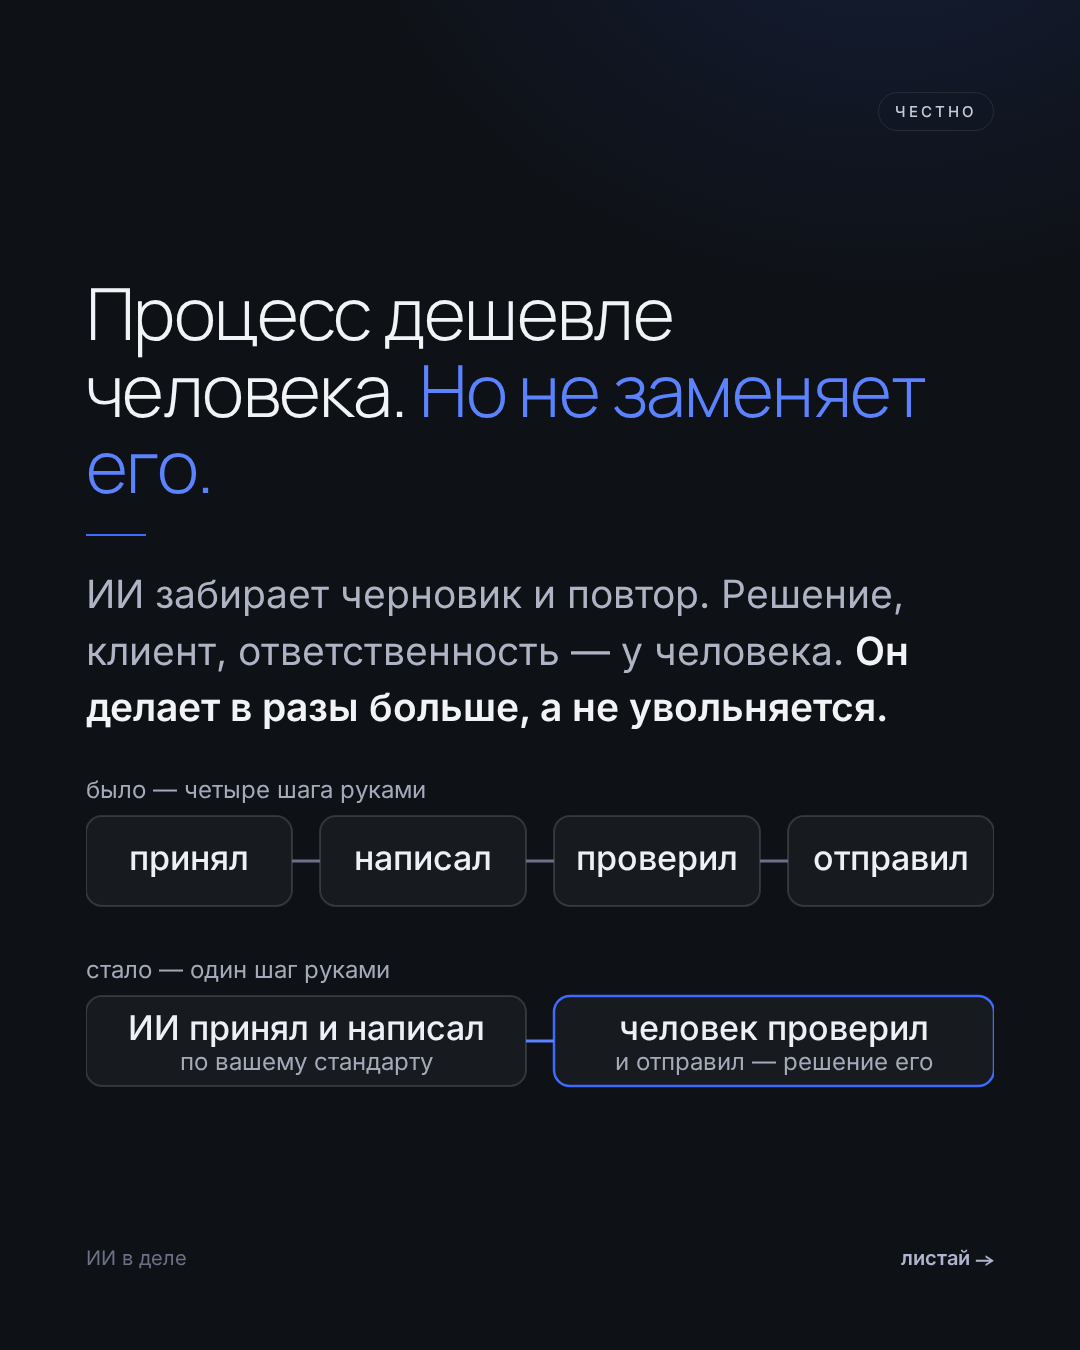
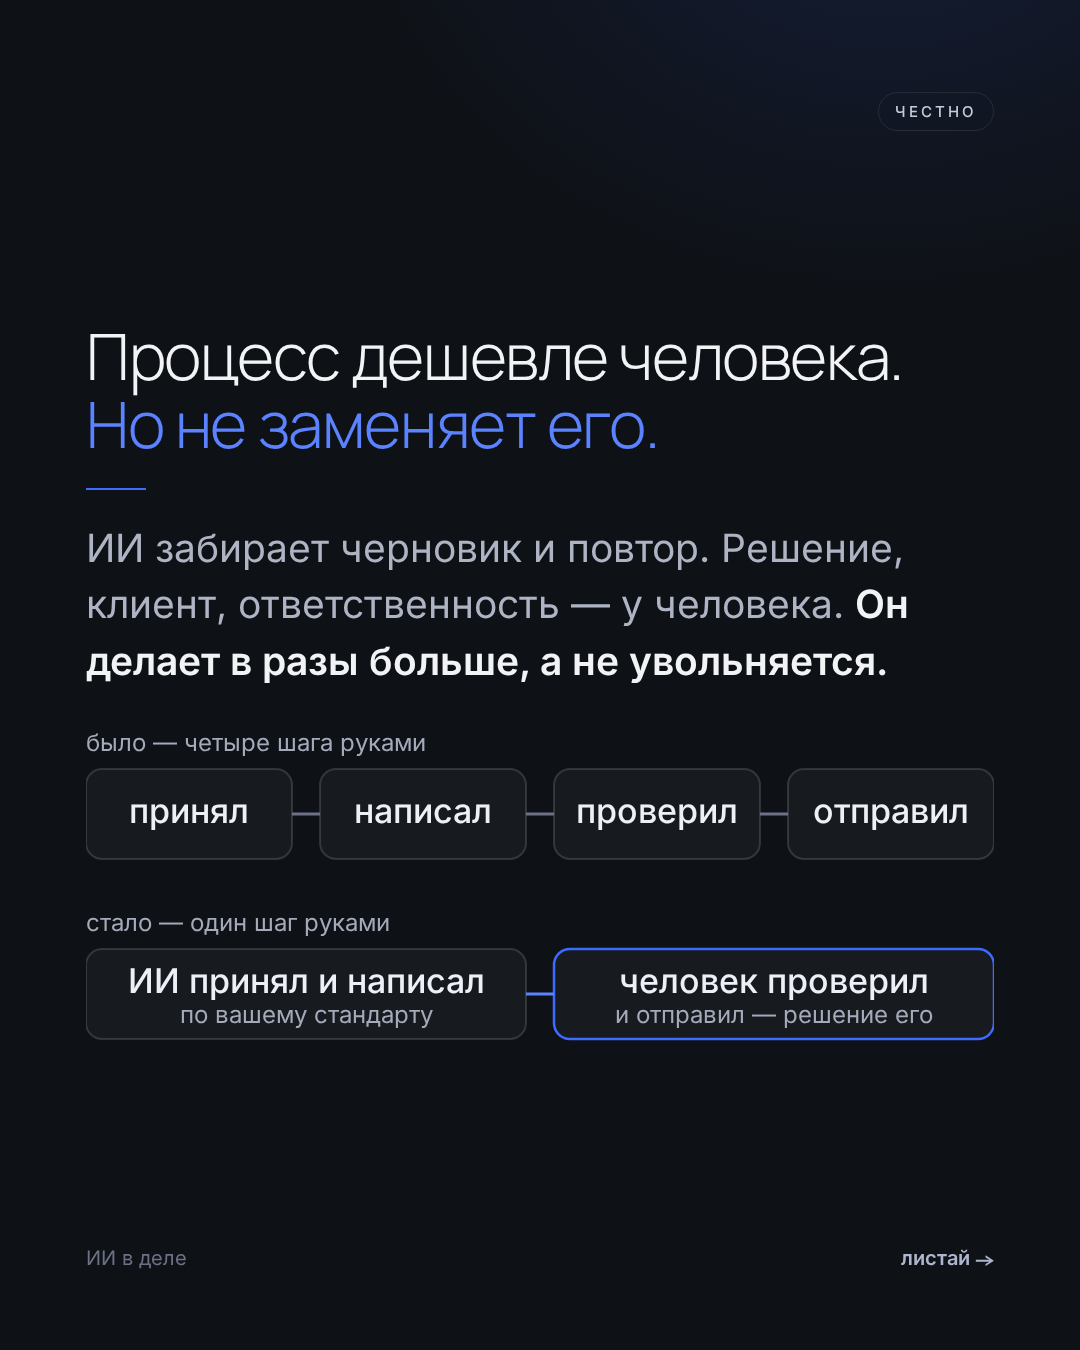
Карусели №6, №7: правки 17.09 (кадр, нумерация 1–4, перенос)

diff --git a/dorogoy-sotrudnik.html b/dorogoy-sotrudnik.html
@@ -18,6 +18,6 @@ a{color:#5b82ff}.lk{display:block;text-align:center;margin-top:18px;font-size:13
 <div id="lb" onclick="this.classList.remove('on')"><img id="li"></div>
 <script>
 const r=document.getElementById('r');
-const V='?v=20260917';
+const V='?v=20260917b';
 for(let i=1;i<=7;i++){const p='dorogoy-sotrudnik/'+String(i).padStart(2,'0')+'.png'+V;const im=new Image();im.src=p;im.onclick=()=>{document.getElementById('li').src=p;document.getElementById('lb').classList.add('on')};r.appendChild(im);}
 </script></body></html>

diff --git a/pervaya-zadacha.html b/pervaya-zadacha.html
@@ -18,6 +18,6 @@ a{color:#5b82ff}.lk{display:block;text-align:center;margin-top:18px;font-size:13
 <div id="lb" onclick="this.classList.remove('on')"><img id="li"></div>
 <script>
 const r=document.getElementById('r');
-const V='?v=20260917';
+const V='?v=20260917b';
 for(let i=1;i<=7;i++){const p='pervaya-zadacha/'+String(i).padStart(2,'0')+'.png'+V;const im=new Image();im.src=p;im.onclick=()=>{document.getElementById('li').src=p;document.getElementById('lb').classList.add('on')};r.appendChild(im);}
 </script></body></html>
